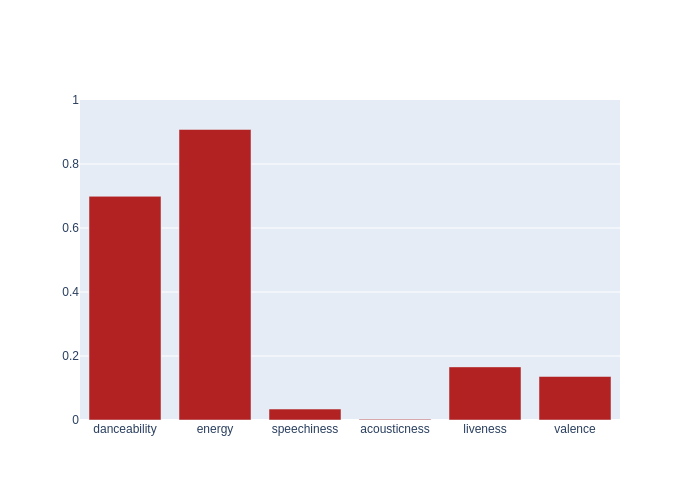
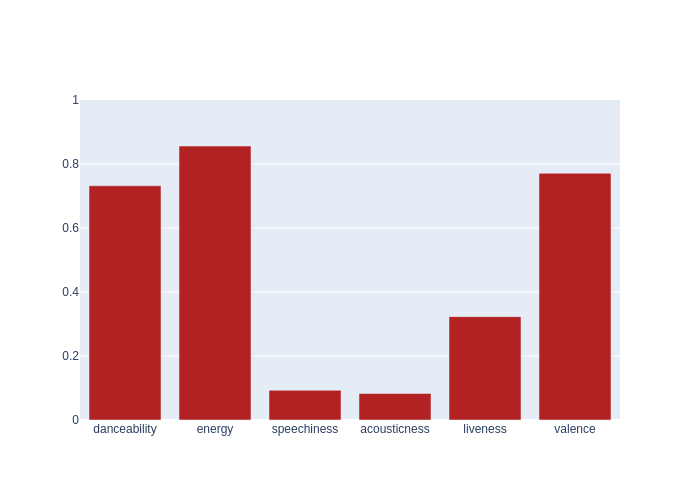
Automated README update

diff --git a/README.md b/README.md
@@ -4,7 +4,7 @@ Automated music metrics for fun, updated hourly.
 
 ## Spotify
 
-- currently listening to **Cree+ - NXXN**
+- currently listening to **MAX - Love Me Less (feat. Quinn XCII)**
 
 - **871** liked songs
 - **138** playlists
